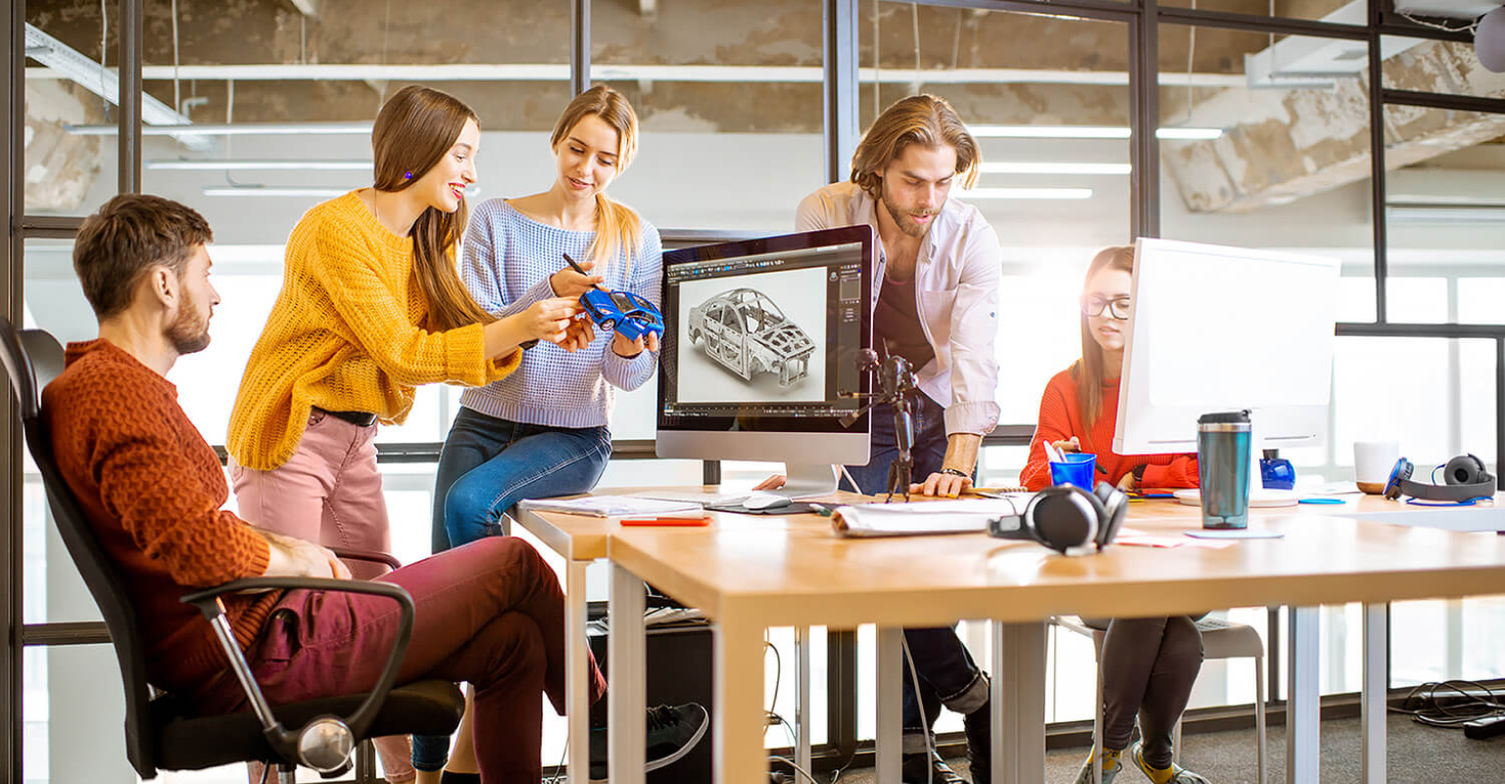
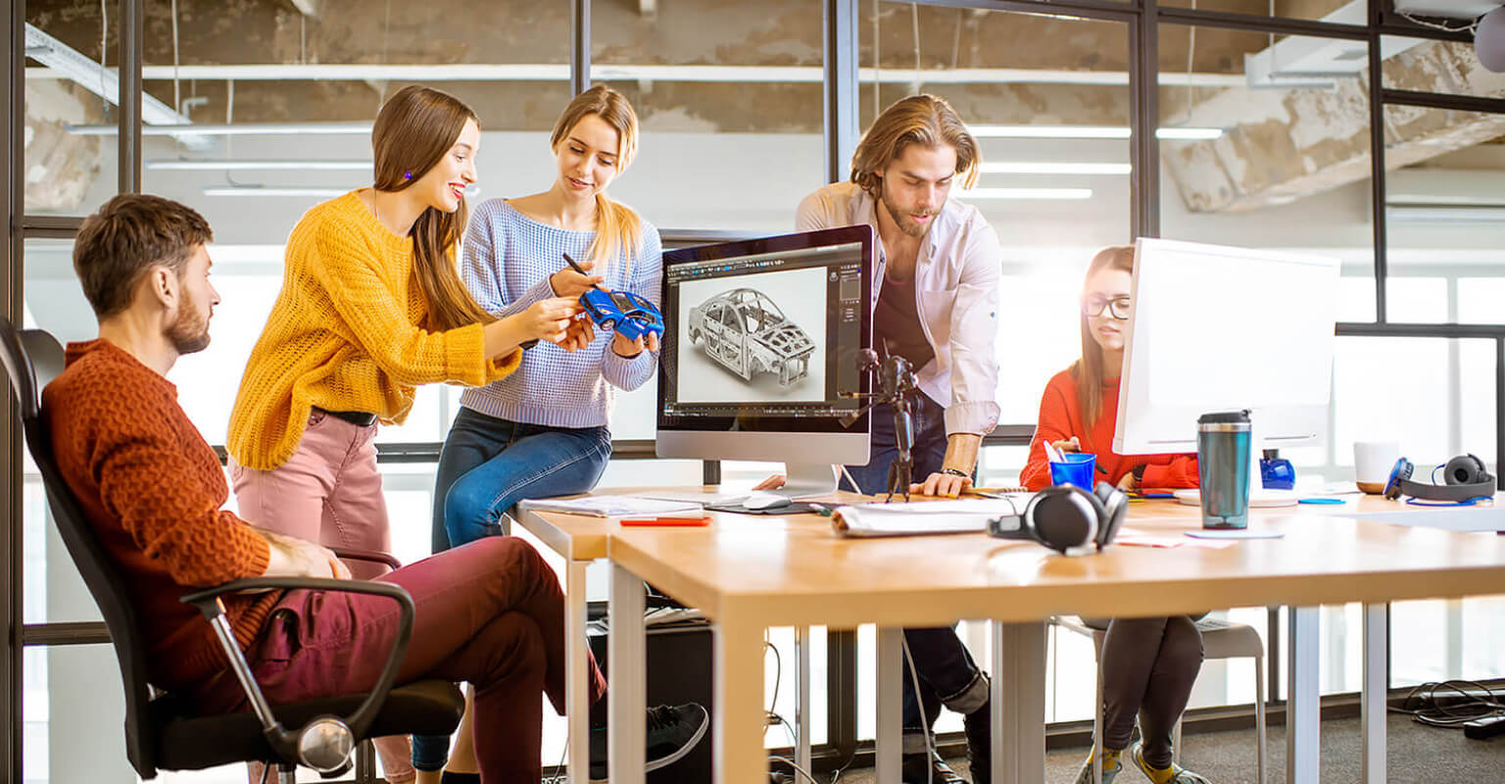
добавляет оптимизированные изображения

Changed region(s): [[0.375, 0.375, 0.4375, 0.4375], [0.25, 0.375, 0.2812, 0.4062], [0.2188, 0.2812, 0.25, 0.3125]]

diff --git a/css/main.min.css b/css/main.min.css
@@ -1,2 +1,2 @@
-html{box-sizing:border-box}*,*::before,*::after{box-sizing:inherit;margin:0;padding:0}body{font-family:"Roboto",sans-serif;background-color:#ffffff;list-style:none}h1{margin:0}img{display:block;max-width:100%;height:auto}.address{font-style:normal}.link{text-decoration:none;display:block}.list{list-style:none}.section{padding-top:60px;padding-bottom:60px}.container{margin-left:auto;margin-right:auto;padding-left:15px;padding-right:15px}@media screen and (min-width: 480px){.container{width:480px}}@media screen and (min-width: 768px){.container{width:768px}}@media screen and (min-width: 1200px){.container{width:1200px}}.backdrop{position:fixed;width:100%;height:100%;left:0;top:0;display:flex;justify-content:center;align-items:center;background:rgba(0,0,0,0.2);z-index:1000;transition:opacity 250ms cubic-bezier(0.4, 0, 0.2, 1),visibility 250ms cubic-bezier(0.4, 0, 0.2, 1)}.is-hidden{opacity:0;visibility:hidden;pointer-events:none}.modal-form{width:528px;padding:40px;position:absolute;top:50%;left:50%;transform:translate(-50%, -50%);display:flex;flex-direction:column;justify-content:center;align-items:center;background:#ffffff;box-shadow:0px 1px 3px rgba(0,0,0,0.12),0px 1px 1px rgba(0,0,0,0.14),0px 2px 1px rgba(0,0,0,0.2);border-radius:4px;transition:transform 250ms cubic-bezier(0.4, 0, 0.2, 1)}.backdrop.is-hidden .modal-form{transform:translate(-50%, 50%)}.modal-form-title{font-weight:700;font-size:20px;line-height:1.15;text-align:center;letter-spacing:0.03em;margin-bottom:30px}.modal-form-input-wrapper{position:relative;margin-bottom:28px}.modal-form-input{display:block;padding:12px 18px 12px 42px;width:448px}.modal-form-label{position:absolute;top:50%;left:42px;transform:translateY(-50%)}.modal-form-comment{padding:12px 16px;margin-bottom:20px;width:100%;height:120px;resize:none}.modal-form-input,.modal-form-comment{border:1px solid rgba(33,33,33,0.2);box-sizing:border-box;border-radius:4px}.modal-form-input,.modal-form-comment,.modal-form-label{font-weight:400;font-size:14px;line-height:1.14;letter-spacing:0.01em;color:#757575;transition:transform 250ms cubic-bezier(0.4, 0, 0.2, 1)}.modal-form-input:focus+.modal-form-label,.modal-form-input:not(:placeholder-shown)+.modal-form-label{transform:translate(-26px, -40px);color:#2196f3;font-size:12px;font-weight:400;line-height:1.17;letter-spacing:0.01em}.modal-form-input:focus,.modal-form-comment:focus,.modal-form-input:not(:placeholder-shown),.modal-form-comment:not(:placeholder-shown){outline:none;border-color:#2196f3}.modal-input-svg{position:absolute;top:50%;left:16px;transform:translateY(-50%);fill:#212121;transition:fill 250ms cubic-bezier(0.4, 0, 0.2, 1)}.modal-form-input:focus ~ .modal-input-svg{fill:#2196f3}.modal-form-input:focus ~ .modal-btn-svg{fill:#2196f3}.modal-form-submit-btn{width:200px;height:50px;background:#2196f3;box-shadow:0px 4px 4px rgba(0,0,0,0.15);border-radius:4px;border:none;font-weight:700;font-size:16px;line-height:1.87;text-align:center;letter-spacing:0.06em;color:#ffffff;cursor:pointer}.modal-form-submit-btn:hover{background-color:#188ce8}.checkbox-input{position:absolute;width:1px;height:1px;margin:-1px;border:0;padding:0;clip:rect(0 0 0 0);overflow:hidden}.checkbox{margin-bottom:30px;font-weight:400;font-size:14px;line-height:1.71;letter-spacing:0.03em;color:#757575;display:flex;align-items:center;position:relative;padding-left:25px}.checkbox label:after{content:"";display:inline-block;width:16px;height:15px;border:2px solid #212121;border-radius:2px;margin-right:8px;position:absolute;left:0;top:50%;transform:translateY(-50%)}.checkbox input[type="checkbox"]:checked+label:after{background-image:url("../images/icon-check.svg");background-size:contain;background-origin:border-box;border-color:#2196f3;background-color:#2196f3}.checkbox-agreement-link{color:#2196f3}.modal-close-btn{cursor:pointer;position:absolute;top:8px;right:8px;background-color:transparent;border:none}.modal-close-btn-svg{width:30px;height:30px;border:1px solid rgba(0,0,0,0.1);border-radius:50%;fill:#000000;background:#ffffff;transition:fill 250ms cubic-bezier(0.4, 0, 0.2, 1)}.modal-close-btn-svg:hover{fill:#2196f3;border-color:rgba(0,0,0,0.1)}.header{border-bottom:1px solid #ececec;position:relative}.header .container{display:flex;align-items:center;justify-content:space-between}.logo{font-family:"Raleway",sans-serif;font-weight:700;font-size:24px;line-height:1.17;letter-spacing:0.03em;color:#000}.logo-element{color:#2196f3}.header-mail-svg{margin-right:10px;fill:#757575;transition:fill 250ms cubic-bezier(0.4, 0, 0.2, 1)}.header-phone-svg{margin-right:10px;fill:#757575;transition:fill 250ms cubic-bezier(0.4, 0, 0.2, 1)}.address-list-item-link:hover .header-mail-svg,.address-list-item-link:focus .header-mail-svg,.address-list-item-link:hover .header-phone-svg,.address-list-item-link:focus .header-phone-svg{fill:#2196f3}.navigation-list-link{position:relative;display:inline-flex}.navigation-list-link.current-page-link::after{position:absolute;display:block;content:"";width:100%;height:4px;background:#2196f3;border-radius:2px;bottom:-8px;left:0}.navigation-list-link:hover,.navigation-list-link:focus,.address-list-item-link:hover,.address-list-item-link:focus{color:#2196f3}.navigation-list-link,.address-list-item-link{font-weight:500;letter-spacing:0.02em;transition:color 250ms cubic-bezier(0.4, 0, 0.2, 1)}.navigation-list-link{color:#212121}.address-list-item-link{color:#757575}.current-page-link{color:#2196f3}@media screen and (max-width: 767px){.menu-button{display:inline-flex;margin:0;padding:0;border:none;background-color:transparent}.menu-button .burger-close{display:none}.menu-button.is-open .burger-close{display:block}.menu-button.is-open .burger{display:none}.menu-button:hover .burger,.menu-button:focus .burger,.menu-button:hover .burger-close,.menu-button:focus .burger-close{fill:#2196f3}.menu-container{display:none;position:absolute;top:100%;left:0;padding-top:60px;padding-bottom:60px;width:100%;background:#ffffff;box-shadow:0px 4px 8px rgba(0,0,0,0.04),0px 2px 4px rgba(0,0,0,0.08),0px 1px 3px rgba(0,0,0,0.16);text-align:center}.menu-container.is-open{display:block;z-index:10000}.navigation-list{margin-bottom:60px}.logo{padding-top:16px;padding-bottom:16px}.navigation-list-item:not(:last-child){margin-bottom:40px}.navigation-list-link,.address-list-item-link{font-size:18px;line-height:1.17}.address-list-item:not(:last-child){margin-bottom:16px}}@media screen and (min-width: 768px){.logo{padding-top:26px;padding-bottom:26px}.menu-button{display:none}.menu-container{display:flex;justify-content:flex-end;align-items:center;flex-grow:1}.navigation-list{display:flex;margin-right:84px}.navigation-list-item:not(:last-child){margin-right:50px}.navigation-list-link{padding-top:32px;padding-bottom:32px}.navigation-list-link.current-page-link::after{bottom:0}.address-list-item-link{font-size:12px;line-height:1.17}}@media screen and (min-width: 768px) and (max-width: 1199px){.address-list-item:not(:last-child){margin-bottom:10px}}@media screen and (min-width: 1200px){.logo{padding-top:24px;padding-bottom:25px}.navigation-list{display:flex;margin-right:305px}.address-list{display:flex;align-items:baseline}.address-list-item:not(:last-child){margin-right:30px}.address-list-item-link{font-size:14px;line-height:1.14;padding-top:32px;padding-bottom:32px}}.hero{max-width:480px;margin-left:auto;margin-right:auto;background-image:linear-gradient(rgba(47,48,58,0.8), rgba(47,48,58,0.8)),url(../images/hero/hero-mob.jpg);background-repeat:no-repeat;background-size:cover;background-position:center}@media screen and (min-device-pixel-ratio: 2), screen and (min-resolution: 192dpi), screen and (min-resolution: 2dppx){.hero{background-image:linear-gradient(rgba(47,48,58,0.8), rgba(47,48,58,0.8)),url(../images/hero/hero-mob@2x.jpg)}}.hero-title{font-weight:900;font-size:26px;line-height:1.62;text-align:center;letter-spacing:0.06em;text-transform:uppercase;color:#ffffff}.hero .container{display:flex;flex-direction:column;align-items:center;padding-top:118px;padding-bottom:118px}.hero-button{margin-top:30px;width:200px;height:50px;background:#2196f3;box-shadow:0px 4px 4px rgba(0,0,0,0.15);border:transparent;border-radius:4px;font-weight:700;font-size:16px;line-height:1.87;text-align:center;letter-spacing:0.06em;color:#ffffff}.hero-button:hover,.hero-button:focus{background-color:#188ce8;color:#ffffff;cursor:pointer}@media screen and (min-width: 768px){.hero{max-width:1199px;margin-left:auto;margin-right:auto;background-image:linear-gradient(rgba(47,48,58,0.8), rgba(47,48,58,0.8)),url(../images/hero/hero-tab.jpg)}}@media screen and (min-width: 768px) and (min-device-pixel-ratio: 2), screen and (min-width: 768px) and (min-resolution: 192dpi), screen and (min-width: 768px) and (min-resolution: 2dppx){.hero{background-image:linear-gradient(rgba(47,48,58,0.8), rgba(47,48,58,0.8)),url(../images/hero/hero-tab@2x.jpg)}}@media screen and (min-width: 1200px){.hero{max-width:1600px;margin-left:auto;margin-right:auto;background-image:linear-gradient(rgba(47,48,58,0.8), rgba(47,48,58,0.8)),url(../images/hero/hero-desctop.jpg)}}@media screen and (min-width: 1200px) and (min-device-pixel-ratio: 2), screen and (min-width: 1200px) and (min-resolution: 192dpi), screen and (min-width: 1200px) and (min-resolution: 2dppx){.hero{background-image:linear-gradient(rgba(47,48,58,0.8), rgba(47,48,58,0.8)),url(../images/hero/hero-desctop@2x.jpg)}}@media screen and (min-width: 1200px){.hero-title{font-weight:900;font-size:44px;line-height:1.36;text-align:center;letter-spacing:0.06em;text-transform:uppercase;color:#ffffff}.hero .container{display:flex;flex-direction:column;align-items:center;padding-top:200px;padding-bottom:200px}}.subtitle{margin-top:30px;margin-bottom:10px;font-weight:700;font-size:14px;line-height:1.14;letter-spacing:0.03em;text-transform:uppercase;text-align:center;color:#212121}.why-are-we-feature{font-weight:400;font-size:14px;line-height:1.71;letter-spacing:0.03em;color:#757575}.why-img{display:flex;justify-content:center;padding-bottom:25px;padding-top:25px;background-color:#f5f4fa;border-radius:4px}@media screen and (max-width: 767px){.why-are-we-list-item{max-width:480px}}@media screen and (min-width: 768px){.why-are-we-list{display:inline-flex;flex-wrap:wrap;justify-content:center}.why-are-we-list-item{width:354px}}@media screen and (min-width: 768px) and (max-width: 1199px){.why-are-we-list-item:not(:nth-last-child(-n+2)){margin-bottom:30px}.why-are-we-list-item:nth-child(2n-1){margin-right:30px}}@media screen and (min-width: 1200px){.why-are-we-list-item{width:calc((100% - 90px) / 4)}.why-are-we-list-item:not(:last-child){margin-right:30px}}.what-we-do.section{padding-top:0px}@media screen and (max-width: 1199px){.what-we-do.section{display:none}}.title{margin-bottom:50px;font-weight:700;font-size:36px;line-height:1.17;text-align:center;letter-spacing:0.03em;color:#212121}.what-we-do-subtitle{position:absolute;bottom:0;padding-top:27px;padding-bottom:27px;width:100%;font-weight:700;font-size:14px;line-height:1.14;letter-spacing:0.03em;text-transform:uppercase;text-align:center;color:#ffffff;background:rgba(47,48,58,0.8)}.what-we-do-list{display:flex}.what-we-do-list-item{position:relative;width:calc((100% - 60px) / 3)}.what-we-do-list-item:not(:last-child){margin-right:30px}.team.section{background-color:#f5f4fa}.team-list-item{display:block;width:100%;margin:0 auto;background:#ffffff;box-shadow:0px 2px 1px rgba(0,0,0,0.2),0px 1px 1px rgba(0,0,0,0.14),0px 1px 3px rgba(0,0,0,0.12);border-radius:0px 0px 4px 4px}.team-list-item-name{margin-top:30px;margin-bottom:10px;font-weight:500;font-size:16px;line-height:1.19;text-align:center;letter-spacing:0.03em;color:#212121}.team-list-item-position{margin-bottom:16px;font-weight:400;font-size:16px;line-height:1.19;text-align:center;letter-spacing:0.03em;color:#757575}.team-social-links-list{display:flex;justify-content:center;padding-bottom:24px}.team-social-link{display:flex;justify-content:center;align-items:center;width:44px;height:44px;border-radius:50%;transition-property:background-color;transition-duration:250ms;transition-timing-function:cubic-bezier(0.4, 0, 0.2, 1)}.team-social-link:hover,.team-social-link:focus{background-color:#2196f3}.team-social-icon{width:20px;height:20px;fill:#afb1b8;transition-property:fill;transition-duration:250ms;transition-timing-function:cubic-bezier(0.4, 0, 0.2, 1)}.team-social-link:hover .team-social-icon,.team-social-link:focus .team-social-icon{fill:#ffffff}@media screen and (max-width: 767px){.team-list-item:not(:last-child){margin-bottom:30px}}@media screen and (min-width: 768px){.team-list{display:flex;flex-wrap:wrap}}@media screen and (min-width: 768px) and (max-width: 1199px){.team-list{display:flex;justify-content:center}.team-list-item{width:calc((100% - 60px) / 2)}.team-list-item:not(:nth-last-child(-n+2)){margin-bottom:30px}.team-list-item:nth-child(2n-1){margin-right:30px}}@media screen and (min-width: 1200px){.section{padding-top:94px;padding-bottom:94px}.team-list-item{width:calc((100% - 90px) / 4)}.team-list-item:not(:last-child){margin-right:30px}}.clients-list{display:flex;flex-wrap:wrap;justify-content:center}.clients-list-item{display:flex;justify-content:center;align-items:center}.clients-list-item-link{display:flex;justify-content:center;align-items:center;height:90px;border:1px solid #afb1b8;box-sizing:border-box;border-radius:4px;transition-property:border;transition-duration:250ms;transition-timing-function:cubic-bezier(0.4, 0, 0.2, 1)}.clients-list-item-link:hover,.clients-list-item-link:focus{border:1px solid #2196f3;border-radius:4px}.clients-icon{fill:#afb1b8;transition-property:fill;transition-duration:250ms;transition-timing-function:cubic-bezier(0.4, 0, 0.2, 1)}.clients-list-item-link:hover .clients-icon,.clients-list-item-link:focus .clients-icon{fill:#2196f3}@media screen and (max-width: 479px){.clients-list{display:block}.clients-list-item-link{width:210px}.clients-list-item:not(:last-child){margin-bottom:30px}}@media screen and (min-width: 480px) and (max-width: 767px){.clients-list-item-link{width:210px}.clients-list-item:nth-child(2n-1){margin-right:30px}.clients-list-item:not(:nth-last-child(-n+2)){margin-bottom:30px}}@media screen and (min-width: 768px) and (max-width: 1199px){.clients-list-item-link{width:226px}.clients-list-item:not(:nth-child(3n)){margin-right:30px}.clients-list-item:nth-last-child(n+4){margin-bottom:30px}}@media screen and (min-width: 1200px){.section{padding-top:94px;padding-bottom:94px}.clients-list-item:not(:last-child){margin-right:30px}.clients-list-item-link{width:170px}}.portfolio-filter{display:flex}.portfolio-filter-list-item:not(:last-child){margin-right:8px}.portfolio-button{padding-top:6px;padding-right:22px;padding-bottom:6px;padding-left:22px;font-weight:500;font-size:16px;line-height:1.62;border-radius:4px;border:transparent;text-align:center;letter-spacing:0.03em;color:#212121;transition-duration:250ms;transition-timing-function:cubic-bezier(0.4, 0, 0.2, 1)}.portfolio-button:hover,.portfolio-button:focus{box-shadow:0px 2px 2px rgba(0,0,0,0.12),0px 1px 2px rgba(0,0,0,0.08),0px 3px 1px rgba(0,0,0,0.1);background-color:#2196f3;color:#ffffff}.portfolio-list-item-link{border:1px solid #eeeeee;transition-property:box-shadow;transition-duration:250ms;transition-timing-function:cubic-bezier(0.4, 0, 0.2, 1)}.portfolio-list-item-link:hover,.portfolio-list-item-link:focus{box-shadow:1px 4px 6px rgba(0,0,0,0.16),0px 4px 4px rgba(0,0,0,0.06),0px 1px 1px rgba(0,0,0,0.12)}.portfolio-list-item-name{margin:0px;margin-top:20px;padding-left:24px;font-weight:700;font-size:18px;line-height:2;letter-spacing:0.06em;color:#212121}.portfolio-list-item-desc{margin:0px;margin-top:4px;padding-bottom:20px;padding-left:24px;font-weight:400;font-size:16px;line-height:1.87;letter-spacing:0.03em;color:#757575}.potfolio-desc{position:relative;overflow:hidden}.portfolio-hover-desc{position:absolute;top:0;left:0;transform:translateY(100%);width:100%;height:100%;padding:63px 24px 63px 24px;font-weight:400;font-size:18px;line-height:1.56;letter-spacing:0.03em;color:#ffffff;background:rgba(33,150,243,0.9);opacity:0;transition:transform 250ms cubic-bezier(0.4, 0, 0.2, 1),opacity 250ms cubic-bezier(0.4, 0, 0.2, 1)}.portfolio-list-item-link:hover .portfolio-hover-desc{transform:translateY(0%);opacity:1}@media screen and (min-width: 480px) and (max-width: 767px){.portfolio-list-item{width:450px}.portfolio-list-item:not(:last-child){margin-bottom:30px}}@media screen and (max-width: 767px){.portfolio-filter{flex-wrap:wrap;margin-bottom:40px}.portfolio-filter-list-item:nth-child(-n+3){margin-bottom:15px}}@media screen and (min-width: 768px){.portfolio-filter{flex-wrap:nowrap;justify-content:center;align-items:center;margin-bottom:30px}.portfolio-list{display:flex;flex-wrap:wrap}.portfolio-list-item{width:calc((100% - 30px) / 2)}.portfolio-list-item:nth-child(2n-1){margin-right:30px}.portfolio-list-item:not(:last-child){margin-bottom:30px}}@media screen and (min-width: 1200px){.portfolio .section{padding-top:94px;padding-bottom:94px}.portfolio-filter{margin-bottom:50px}.portfolio-list-item{width:calc((100% - 60px) / 3);margin-right:30px;margin-bottom:30px}.portfolio-list-item:nth-child(3n){margin-right:0px}.portfolio-list-item:nth-last-child(-n+3){margin-bottom:0px}}.footer.section{background-color:#2f303a}.footer-studio{color:#fff}.contact-list{margin-top:20px}.footer-tel,.footer-mail,.footer-location{margin-bottom:9px;font-weight:400;font-size:14px;line-height:1.71;letter-spacing:0.03em;color:rgba(255,255,255,0.6)}.footer-tel{margin-bottom:0px}.footer-location{color:#ffffff}.join-us{margin-bottom:20px;font-weight:700;font-size:14px;line-height:1.14;letter-spacing:0.03em;text-transform:uppercase;color:#ffffff}.footer-social-link-list{display:inline-flex}.footer-social-link-list-link{display:flex;justify-content:center;align-items:center;width:44px;height:44px;border-radius:50%;background-color:rgba(255,255,255,0.1);transition-property:background-color;transition-duration:250ms;transition-timing-function:cubic-bezier(0.4, 0, 0.2, 1)}.footer-social-link-list-link:hover,.footer-social-link-list-link:focus{background-color:#2196f3}.footer-social-link-list-item:not(:last-child){margin-right:10px}.footer-social-icon{width:20px;height:20px;fill:#ffffff}.footer-subscribe-input{display:block;width:100%;height:50px;padding-top:15px;padding-bottom:15px;padding-left:16px;padding-right:16px;margin-bottom:20px;border:1px solid rgba(255,255,255,0.3);box-sizing:border-box;filter:drop-shadow(0px 4px 4px rgba(0,0,0,0.15));border-radius:4px;background-color:transparent}.footer-subscribe-input,.footer-subscribe-input::placeholder{font-family:"Roboto",sans-serif;font-weight:400;font-size:16px;line-height:1.25;letter-spacing:0.03em;color:rgba(255,255,255,0.6)}.footer-subscribe-btn{display:inline-flex;align-items:center;width:200px;height:50px;padding-left:29px;background:#2196f3;box-shadow:0px 4px 4px rgba(0,0,0,0.15);border-radius:4px;border:none;font-family:"Roboto",sans-serif;font-weight:700;font-size:16px;line-height:1.87;letter-spacing:0.06em;color:#ffffff;cursor:pointer}.footer-subscribe-svg{margin-left:10px;fill:#ffffff}@media screen and (max-width: 1199px){.footer .container{text-align:center}.footer-left{margin-bottom:60px}.footer-join{margin-bottom:60px}}@media screen and (min-width: 768px){.footer .container{display:flex;flex-wrap:wrap;justify-content:center;align-items:baseline}}@media screen and (min-width: 768px) and (max-width: 1199px){.footer-left{margin-right:165px}.footer-subscribe-input{width:450px}}@media screen and (min-width: 1200px){.footer.section{padding-top:60px;padding-bottom:60px}.footer-left{margin-right:69px}.footer-join{margin-right:94px}.footer-subscribe-form{display:flex}.footer-subscribe-input{width:358px;margin-right:12px}}
+html{box-sizing:border-box}*,*::before,*::after{box-sizing:inherit;margin:0;padding:0}body{font-family:"Roboto",sans-serif;background-color:#ffffff;list-style:none}h1{margin:0}img{display:block;max-width:100%;height:auto}.address{font-style:normal}.link{text-decoration:none;display:block}.list{list-style:none}.section{padding-top:60px;padding-bottom:60px}.container{margin-left:auto;margin-right:auto;padding-left:15px;padding-right:15px}@media screen and (min-width: 480px){.container{width:480px}}@media screen and (min-width: 768px){.container{width:768px}}@media screen and (min-width: 1200px){.container{width:1200px}}.backdrop{position:fixed;width:100%;height:100%;left:0;top:0;display:flex;justify-content:center;align-items:center;background:rgba(0,0,0,0.2);z-index:1000;transition:opacity 250ms cubic-bezier(0.4, 0, 0.2, 1),visibility 250ms cubic-bezier(0.4, 0, 0.2, 1)}.is-hidden{opacity:0;visibility:hidden;pointer-events:none}.modal-form{width:528px;padding:40px;position:absolute;top:50%;left:50%;transform:translate(-50%, -50%);display:flex;flex-direction:column;justify-content:center;align-items:center;background:#ffffff;box-shadow:0px 1px 3px rgba(0,0,0,0.12),0px 1px 1px rgba(0,0,0,0.14),0px 2px 1px rgba(0,0,0,0.2);border-radius:4px;transition:transform 250ms cubic-bezier(0.4, 0, 0.2, 1)}.backdrop.is-hidden .modal-form{transform:translate(-50%, 50%)}.modal-form-title{font-weight:700;font-size:20px;line-height:1.15;text-align:center;letter-spacing:0.03em;margin-bottom:30px}.modal-form-input-wrapper{position:relative;margin-bottom:28px}.modal-form-input{display:block;padding:12px 18px 12px 42px;width:448px}.modal-form-label{position:absolute;top:50%;left:42px;transform:translateY(-50%)}.modal-form-comment{padding:12px 16px;margin-bottom:20px;width:100%;height:120px;resize:none}.modal-form-input,.modal-form-comment{border:1px solid rgba(33,33,33,0.2);box-sizing:border-box;border-radius:4px}.modal-form-input,.modal-form-comment,.modal-form-label{font-weight:400;font-size:14px;line-height:1.14;letter-spacing:0.01em;color:#757575;transition:transform 250ms cubic-bezier(0.4, 0, 0.2, 1)}.modal-form-input:focus+.modal-form-label,.modal-form-input:not(:placeholder-shown)+.modal-form-label{transform:translate(-26px, -40px);color:#2196f3;font-size:12px;font-weight:400;line-height:1.17;letter-spacing:0.01em}.modal-form-input:focus,.modal-form-comment:focus,.modal-form-input:not(:placeholder-shown),.modal-form-comment:not(:placeholder-shown){outline:none;border-color:#2196f3}.modal-input-svg{position:absolute;top:50%;left:16px;transform:translateY(-50%);fill:#212121;transition:fill 250ms cubic-bezier(0.4, 0, 0.2, 1)}.modal-form-input:focus ~ .modal-input-svg{fill:#2196f3}.modal-form-input:focus ~ .modal-btn-svg{fill:#2196f3}.modal-form-submit-btn{width:200px;height:50px;background:#2196f3;box-shadow:0px 4px 4px rgba(0,0,0,0.15);border-radius:4px;border:none;font-weight:700;font-size:16px;line-height:1.87;text-align:center;letter-spacing:0.06em;color:#ffffff;cursor:pointer}.modal-form-submit-btn:hover{background-color:#188ce8}.checkbox-input{position:absolute;width:1px;height:1px;margin:-1px;border:0;padding:0;clip:rect(0 0 0 0);overflow:hidden}.checkbox{margin-bottom:30px;font-weight:400;font-size:14px;line-height:1.71;letter-spacing:0.03em;color:#757575;display:flex;align-items:center;position:relative;padding-left:25px}.checkbox label:after{content:"";display:inline-block;width:16px;height:15px;border:2px solid #212121;border-radius:2px;margin-right:8px;position:absolute;left:0;top:50%;transform:translateY(-50%)}.checkbox input[type="checkbox"]:checked+label:after{background-image:url("../images/icon-check.svg");background-size:contain;background-origin:border-box;border-color:#2196f3;background-color:#2196f3}.checkbox-agreement-link{color:#2196f3}.modal-close-btn{cursor:pointer;position:absolute;top:8px;right:8px;background-color:transparent;border:none}.modal-close-btn-svg{width:30px;height:30px;border:1px solid rgba(0,0,0,0.1);border-radius:50%;fill:#000000;background:#ffffff;transition:fill 250ms cubic-bezier(0.4, 0, 0.2, 1)}.modal-close-btn-svg:hover{fill:#2196f3;border-color:rgba(0,0,0,0.1)}.header{border-bottom:1px solid #ececec;position:relative}.header .container{display:flex;align-items:center;justify-content:space-between}.logo{font-family:"Raleway",sans-serif;font-weight:700;font-size:24px;line-height:1.17;letter-spacing:0.03em;color:#000}.logo-element{color:#2196f3}.header-mail-svg{margin-right:10px;fill:#757575;transition:fill 250ms cubic-bezier(0.4, 0, 0.2, 1)}.header-phone-svg{margin-right:10px;fill:#757575;transition:fill 250ms cubic-bezier(0.4, 0, 0.2, 1)}.address-list-item-link:hover .header-mail-svg,.address-list-item-link:focus .header-mail-svg,.address-list-item-link:hover .header-phone-svg,.address-list-item-link:focus .header-phone-svg{fill:#2196f3}.navigation-list-link{position:relative;display:inline-flex}.navigation-list-link.current-page-link::after{position:absolute;display:block;content:"";width:100%;height:4px;background:#2196f3;border-radius:2px;bottom:-8px;left:0}.navigation-list-link:hover,.navigation-list-link:focus,.address-list-item-link:hover,.address-list-item-link:focus{color:#2196f3}.navigation-list-link,.address-list-item-link{font-weight:500;letter-spacing:0.02em;transition:color 250ms cubic-bezier(0.4, 0, 0.2, 1)}.navigation-list-link{color:#212121}.address-list-item-link{color:#757575}.current-page-link{color:#2196f3}@media screen and (max-width: 767px){.menu-button{display:inline-flex;margin:0;padding:0;border:none;background-color:transparent}.menu-button .burger-close{display:none}.menu-button.is-open .burger-close{display:block}.menu-button.is-open .burger{display:none}.menu-button:hover .burger,.menu-button:focus .burger,.menu-button:hover .burger-close,.menu-button:focus .burger-close{fill:#2196f3}.menu-container{display:none;position:absolute;top:100%;left:0;padding-top:60px;padding-bottom:60px;width:100%;background:#ffffff;box-shadow:0px 4px 8px rgba(0,0,0,0.04),0px 2px 4px rgba(0,0,0,0.08),0px 1px 3px rgba(0,0,0,0.16);text-align:center}.menu-container.is-open{display:block;z-index:10000}.navigation-list{margin-bottom:60px}.logo{padding-top:16px;padding-bottom:16px}.navigation-list-item:not(:last-child){margin-bottom:40px}.navigation-list-link,.address-list-item-link{font-size:18px;line-height:1.17}.address-list-item:not(:last-child){margin-bottom:16px}}@media screen and (min-width: 768px){.logo{padding-top:26px;padding-bottom:26px}.menu-button{display:none}.menu-container{display:flex;justify-content:flex-end;align-items:center;flex-grow:1}.navigation-list{display:flex;margin-right:84px}.navigation-list-item:not(:last-child){margin-right:50px}.navigation-list-link{padding-top:32px;padding-bottom:32px}.navigation-list-link.current-page-link::after{bottom:0}.address-list-item-link{font-size:12px;line-height:1.17}}@media screen and (min-width: 768px) and (max-width: 1199px){.address-list-item:not(:last-child){margin-bottom:10px}}@media screen and (min-width: 1200px){.logo{padding-top:24px;padding-bottom:25px}.navigation-list{display:flex;margin-right:305px}.address-list{display:flex;align-items:baseline}.address-list-item:not(:last-child){margin-right:30px}.address-list-item-link{font-size:14px;line-height:1.14;padding-top:32px;padding-bottom:32px}}.hero{max-width:480px;margin-left:auto;margin-right:auto;background-image:linear-gradient(rgba(47,48,58,0.8), rgba(47,48,58,0.8)),url(../images/hero/hero-mob.jpg);background-repeat:no-repeat;background-size:cover;background-position:center}@media screen and (min-device-pixel-ratio: 2), screen and (min-resolution: 192dpi), screen and (min-resolution: 2dppx){.hero{background-image:linear-gradient(rgba(47,48,58,0.8), rgba(47,48,58,0.8)),url(../images/hero/hero-mob@2x.jpg)}}.hero-title{font-weight:900;font-size:26px;line-height:1.62;text-align:center;letter-spacing:0.06em;text-transform:uppercase;color:#ffffff}.hero .container{display:flex;flex-direction:column;align-items:center;padding-top:118px;padding-bottom:118px}.hero-button{margin-top:30px;width:200px;height:50px;background:#2196f3;box-shadow:0px 4px 4px rgba(0,0,0,0.15);border:transparent;border-radius:4px;font-weight:700;font-size:16px;line-height:1.87;text-align:center;letter-spacing:0.06em;color:#ffffff}.hero-button:hover,.hero-button:focus{background-color:#188ce8;color:#ffffff;cursor:pointer}@media screen and (min-width: 768px){.hero{max-width:1199px;margin-left:auto;margin-right:auto;background-image:linear-gradient(rgba(47,48,58,0.8), rgba(47,48,58,0.8)),url(../images/hero/hero-tab.jpg)}}@media screen and (min-width: 768px) and (min-device-pixel-ratio: 2), screen and (min-width: 768px) and (min-resolution: 192dpi), screen and (min-width: 768px) and (min-resolution: 2dppx){.hero{background-image:linear-gradient(rgba(47,48,58,0.8), rgba(47,48,58,0.8)),url(../images/hero/hero-tab@2x.jpg)}}@media screen and (min-width: 1200px){.hero{max-width:1600px;margin-left:auto;margin-right:auto;background-image:linear-gradient(rgba(47,48,58,0.8), rgba(47,48,58,0.8)),url(../images/hero/hero-desctop.jpg)}}@media screen and (min-width: 1200px) and (min-device-pixel-ratio: 2), screen and (min-width: 1200px) and (min-resolution: 192dpi), screen and (min-width: 1200px) and (min-resolution: 2dppx){.hero{background-image:linear-gradient(rgba(47,48,58,0.8), rgba(47,48,58,0.8)),url(../images/hero/hero-desctop@2x.jpg)}}@media screen and (min-width: 1200px){.hero-title{font-weight:900;font-size:44px;line-height:1.36;text-align:center;letter-spacing:0.06em;text-transform:uppercase;color:#ffffff}.hero .container{display:flex;flex-direction:column;align-items:center;padding-top:200px;padding-bottom:200px}}.subtitle{margin-top:30px;margin-bottom:10px;font-weight:700;font-size:14px;line-height:1.14;letter-spacing:0.03em;text-transform:uppercase;text-align:center;color:#212121}.why-are-we-feature{font-weight:400;font-size:14px;line-height:1.71;letter-spacing:0.03em;color:#757575}.why-img{display:flex;justify-content:center;padding-bottom:25px;padding-top:25px;background-color:#f5f4fa;border-radius:4px}@media screen and (max-width: 767px){.why-are-we-list-item{max-width:480px}}@media screen and (min-width: 768px){.why-are-we-list{display:inline-flex;flex-wrap:wrap;justify-content:center}.why-are-we-list-item{width:354px}}@media screen and (min-width: 768px) and (max-width: 1199px){.why-are-we-list-item:not(:nth-last-child(-n+2)){margin-bottom:30px}.why-are-we-list-item:nth-child(2n-1){margin-right:30px}}@media screen and (min-width: 1200px){.why-are-we-list-item{width:calc((100% - 90px) / 4)}.why-are-we-list-item:not(:last-child){margin-right:30px}}.what-we-do.section{padding-top:0px}@media screen and (max-width: 1199px){.what-we-do.section{display:none}}.title{margin-bottom:50px;font-weight:700;font-size:36px;line-height:1.17;text-align:center;letter-spacing:0.03em;color:#212121}.what-we-do-subtitle{position:absolute;bottom:0;padding-top:27px;padding-bottom:27px;width:100%;font-weight:700;font-size:14px;line-height:1.14;letter-spacing:0.03em;text-transform:uppercase;text-align:center;color:#ffffff;background:rgba(47,48,58,0.8)}.what-we-do-list{display:flex}.what-we-do-list-item{position:relative;width:calc((100% - 60px) / 3)}.what-we-do-list-item:not(:last-child){margin-right:30px}.team.section{background-color:#f5f4fa}.team-list-item{display:block;width:100%;margin:0 auto;background:#ffffff;box-shadow:0px 2px 1px rgba(0,0,0,0.2),0px 1px 1px rgba(0,0,0,0.14),0px 1px 3px rgba(0,0,0,0.12);border-radius:0px 0px 4px 4px}.team-list-item-name{margin-top:30px;margin-bottom:10px;font-weight:500;font-size:16px;line-height:1.19;text-align:center;letter-spacing:0.03em;color:#212121}.team-list-item-position{margin-bottom:16px;font-weight:400;font-size:16px;line-height:1.19;text-align:center;letter-spacing:0.03em;color:#757575}.team-social-links-list{display:flex;justify-content:center;padding-bottom:24px}.team-social-link{display:flex;justify-content:center;align-items:center;width:44px;height:44px;border-radius:50%;transition-property:background-color;transition-duration:250ms;transition-timing-function:cubic-bezier(0.4, 0, 0.2, 1)}.team-social-link:hover,.team-social-link:focus{background-color:#2196f3}.team-social-icon{width:20px;height:20px;fill:#afb1b8;transition-property:fill;transition-duration:250ms;transition-timing-function:cubic-bezier(0.4, 0, 0.2, 1)}.team-social-link:hover .team-social-icon,.team-social-link:focus .team-social-icon{fill:#ffffff}@media screen and (max-width: 767px){.team-list-item:not(:last-child){margin-bottom:30px}}@media screen and (min-width: 768px){.team-list{display:flex;flex-wrap:wrap}}@media screen and (min-width: 768px) and (max-width: 1199px){.team-list{display:flex;justify-content:center}.team-list-item{width:calc((100% - 30px) / 2)}.team-list-item:not(:nth-last-child(-n+2)){margin-bottom:30px}.team-list-item:nth-child(2n-1){margin-right:30px}}@media screen and (min-width: 1200px){.section{padding-top:94px;padding-bottom:94px}.team-list-item{width:calc((100% - 90px) / 4)}.team-list-item:not(:last-child){margin-right:30px}}.clients-list{display:flex;flex-wrap:wrap;justify-content:center}.clients-list-item{display:flex;justify-content:center;align-items:center}.clients-list-item-link{display:flex;justify-content:center;align-items:center;height:90px;border:1px solid #afb1b8;box-sizing:border-box;border-radius:4px;transition-property:border;transition-duration:250ms;transition-timing-function:cubic-bezier(0.4, 0, 0.2, 1)}.clients-list-item-link:hover,.clients-list-item-link:focus{border:1px solid #2196f3;border-radius:4px}.clients-icon{fill:#afb1b8;transition-property:fill;transition-duration:250ms;transition-timing-function:cubic-bezier(0.4, 0, 0.2, 1)}.clients-list-item-link:hover .clients-icon,.clients-list-item-link:focus .clients-icon{fill:#2196f3}@media screen and (max-width: 479px){.clients-list{display:block}.clients-list-item-link{width:210px}.clients-list-item:not(:last-child){margin-bottom:30px}}@media screen and (min-width: 480px) and (max-width: 767px){.clients-list-item-link{width:210px}.clients-list-item:nth-child(2n-1){margin-right:30px}.clients-list-item:not(:nth-last-child(-n+2)){margin-bottom:30px}}@media screen and (min-width: 768px) and (max-width: 1199px){.clients-list-item-link{width:226px}.clients-list-item:not(:nth-child(3n)){margin-right:30px}.clients-list-item:nth-last-child(n+4){margin-bottom:30px}}@media screen and (min-width: 1200px){.section{padding-top:94px;padding-bottom:94px}.clients-list-item:not(:last-child){margin-right:30px}.clients-list-item-link{width:170px}}.portfolio-filter{display:flex}.portfolio-filter-list-item:not(:last-child){margin-right:8px}.portfolio-button{padding-top:6px;padding-right:22px;padding-bottom:6px;padding-left:22px;font-weight:500;font-size:16px;line-height:1.62;border-radius:4px;border:transparent;text-align:center;letter-spacing:0.03em;color:#212121;transition-duration:250ms;transition-timing-function:cubic-bezier(0.4, 0, 0.2, 1)}.portfolio-button:hover,.portfolio-button:focus{box-shadow:0px 2px 2px rgba(0,0,0,0.12),0px 1px 2px rgba(0,0,0,0.08),0px 3px 1px rgba(0,0,0,0.1);background-color:#2196f3;color:#ffffff}.portfolio-list-item-link{border:1px solid #eeeeee;transition-property:box-shadow;transition-duration:250ms;transition-timing-function:cubic-bezier(0.4, 0, 0.2, 1)}.portfolio-list-item-link:hover,.portfolio-list-item-link:focus{box-shadow:1px 4px 6px rgba(0,0,0,0.16),0px 4px 4px rgba(0,0,0,0.06),0px 1px 1px rgba(0,0,0,0.12)}.portfolio-list-item-name{margin:0px;margin-top:20px;padding-left:24px;font-weight:700;font-size:18px;line-height:2;letter-spacing:0.06em;color:#212121}.portfolio-list-item-desc{margin:0px;margin-top:4px;padding-bottom:20px;padding-left:24px;font-weight:400;font-size:16px;line-height:1.87;letter-spacing:0.03em;color:#757575}.potfolio-desc{position:relative;overflow:hidden}.portfolio-hover-desc{position:absolute;top:0;left:0;transform:translateY(100%);width:100%;height:100%;padding:63px 24px 63px 24px;font-weight:400;font-size:18px;line-height:1.56;letter-spacing:0.03em;color:#ffffff;background:rgba(33,150,243,0.9);opacity:0;transition:transform 250ms cubic-bezier(0.4, 0, 0.2, 1),opacity 250ms cubic-bezier(0.4, 0, 0.2, 1)}.portfolio-list-item-link:hover .portfolio-hover-desc{transform:translateY(0%);opacity:1}@media screen and (min-width: 480px) and (max-width: 767px){.portfolio-list-item{width:450px}.portfolio-list-item:not(:last-child){margin-bottom:30px}}@media screen and (max-width: 767px){.portfolio-filter{flex-wrap:wrap;margin-bottom:40px}.portfolio-filter-list-item:nth-child(-n+3){margin-bottom:15px}}@media screen and (min-width: 768px){.portfolio-filter{flex-wrap:nowrap;justify-content:center;align-items:center;margin-bottom:30px}.portfolio-list{display:flex;flex-wrap:wrap}.portfolio-list-item{width:calc((100% - 30px) / 2)}.portfolio-list-item:nth-child(2n-1){margin-right:30px}.portfolio-list-item:not(:last-child){margin-bottom:30px}}@media screen and (min-width: 1200px){.portfolio .section{padding-top:94px;padding-bottom:94px}.portfolio-filter{margin-bottom:50px}.portfolio-list-item{width:calc((100% - 60px) / 3);margin-right:30px;margin-bottom:30px}.portfolio-list-item:nth-child(3n){margin-right:0px}.portfolio-list-item:nth-last-child(-n+3){margin-bottom:0px}}.footer.section{background-color:#2f303a}.footer-studio{color:#fff}.contact-list{margin-top:20px}.footer-tel,.footer-mail,.footer-location{margin-bottom:9px;font-weight:400;font-size:14px;line-height:1.71;letter-spacing:0.03em;color:rgba(255,255,255,0.6)}.footer-tel{margin-bottom:0px}.footer-location{color:#ffffff}.join-us{margin-bottom:20px;font-weight:700;font-size:14px;line-height:1.14;letter-spacing:0.03em;text-transform:uppercase;color:#ffffff}.footer-social-link-list{display:inline-flex}.footer-social-link-list-link{display:flex;justify-content:center;align-items:center;width:44px;height:44px;border-radius:50%;background-color:rgba(255,255,255,0.1);transition-property:background-color;transition-duration:250ms;transition-timing-function:cubic-bezier(0.4, 0, 0.2, 1)}.footer-social-link-list-link:hover,.footer-social-link-list-link:focus{background-color:#2196f3}.footer-social-link-list-item:not(:last-child){margin-right:10px}.footer-social-icon{width:20px;height:20px;fill:#ffffff}.footer-subscribe-input{display:block;width:100%;height:50px;padding-top:15px;padding-bottom:15px;padding-left:16px;padding-right:16px;margin-bottom:20px;border:1px solid rgba(255,255,255,0.3);box-sizing:border-box;filter:drop-shadow(0px 4px 4px rgba(0,0,0,0.15));border-radius:4px;background-color:transparent}.footer-subscribe-input,.footer-subscribe-input::placeholder{font-family:"Roboto",sans-serif;font-weight:400;font-size:16px;line-height:1.25;letter-spacing:0.03em;color:rgba(255,255,255,0.6)}.footer-subscribe-btn{display:inline-flex;align-items:center;width:200px;height:50px;padding-left:29px;background:#2196f3;box-shadow:0px 4px 4px rgba(0,0,0,0.15);border-radius:4px;border:none;font-family:"Roboto",sans-serif;font-weight:700;font-size:16px;line-height:1.87;letter-spacing:0.06em;color:#ffffff;cursor:pointer}.footer-subscribe-svg{margin-left:10px;fill:#ffffff}@media screen and (max-width: 1199px){.footer .container{text-align:center}.footer-left{margin-bottom:60px}.footer-join{margin-bottom:60px}}@media screen and (min-width: 768px){.footer .container{display:flex;flex-wrap:wrap;justify-content:center;align-items:baseline}}@media screen and (min-width: 768px) and (max-width: 1199px){.footer-left{margin-right:165px}.footer-subscribe-input{width:450px}}@media screen and (min-width: 1200px){.footer.section{padding-top:60px;padding-bottom:60px}.footer-left{margin-right:69px}.footer-join{margin-right:94px}.footer-subscribe-form{display:flex}.footer-subscribe-input{width:358px;margin-right:12px}}
 /*# sourceMappingURL=main.min.css.map */

diff --git a/css/main.css b/css/main.css
@@ -817,7 +817,7 @@ img {
     justify-content: center;
   }
   .team-list-item {
-    width: calc((100% - 60px) / 2);
+    width: calc((100% - 30px) / 2);
   }
   .team-list-item:not(:nth-last-child(-n + 2)) {
     margin-bottom: 30px;

diff --git a/sass/layout/_our-team.scss b/sass/layout/_our-team.scss
@@ -92,7 +92,7 @@
   }
 
   .team-list-item {
-    width: calc((100% - 60px) / 2);
+    width: calc((100% - 30px) / 2);
   }
 
   .team-list-item:not(:nth-last-child(-n + 2)) {
